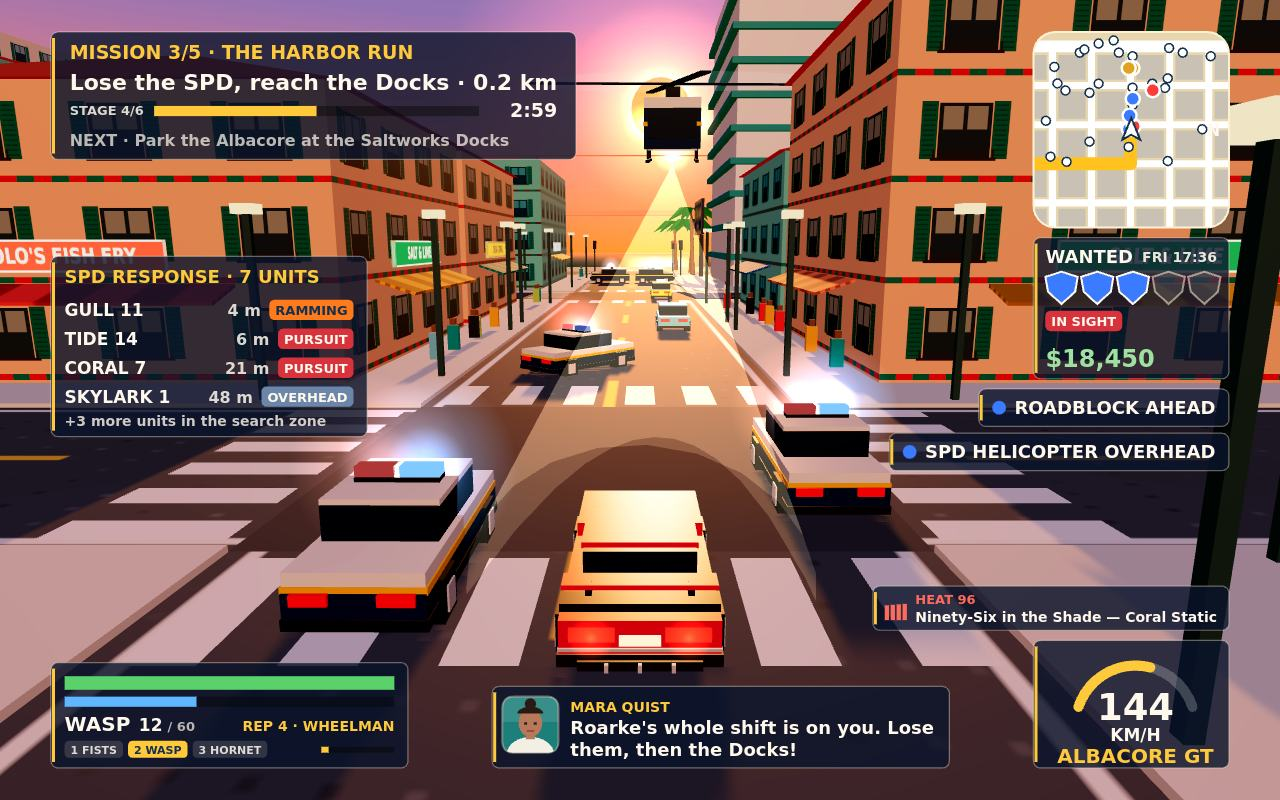
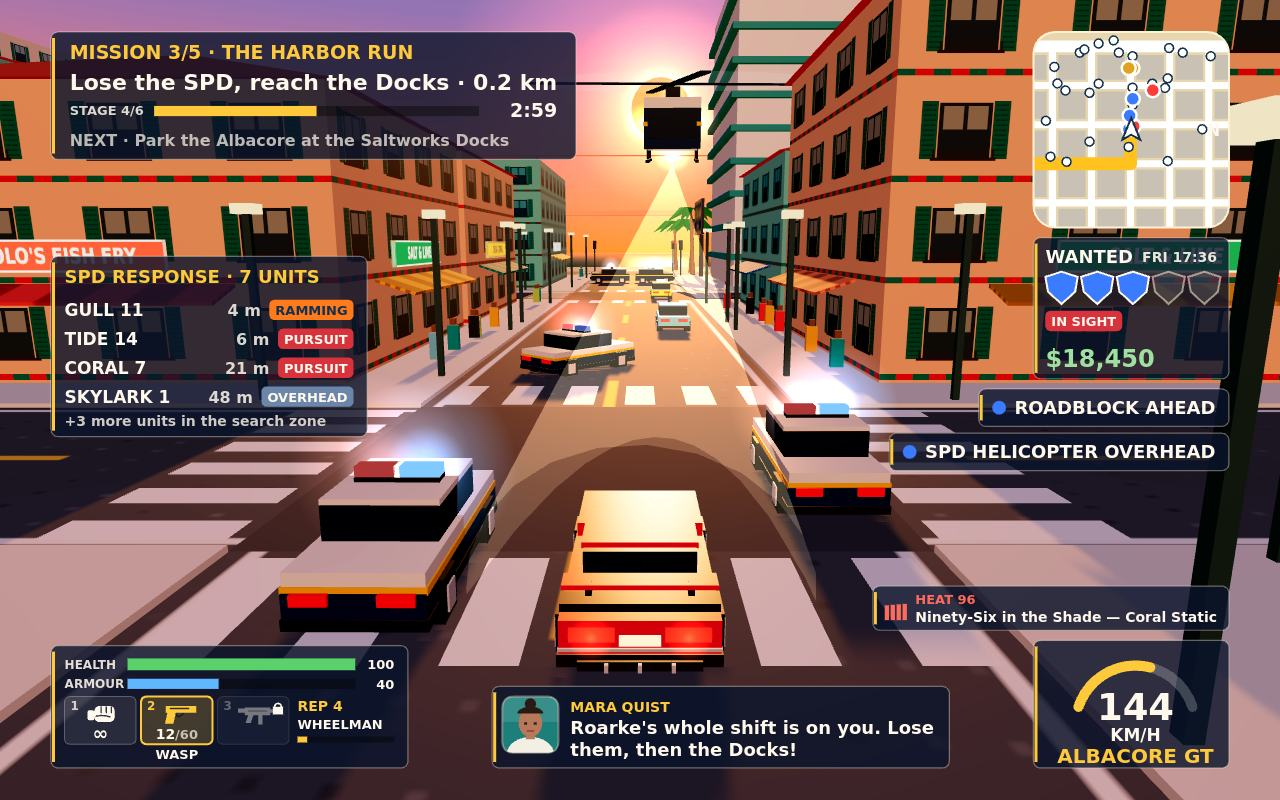
M7 step 1: weapon strip and labelled bars in the play HUD: HEALTH and ARMOUR rows with values; one 84x56 tile per slot (drawWeaponStrip, drawWeaponTile) with our own canvas pictograms (drawWeaponPictogram: fist, Wasp pistol, Hornet SMG), slot number, ammo (FISTS ∞, clip/reserve, red when low), the h

Changed region(s): [[0.0312, 0.7812, 0.3125, 0.9688]]

diff --git a/game/src/ui/hud.js b/game/src/ui/hud.js
@@ -118,47 +118,9 @@ export function drawHud(ctx, game, drawMinimap) {
   ctx.fillText(`${clock.weekday} ${String(Math.floor(minutes / 60)).padStart(2, '0')}:${String(minutes % 60).padStart(2, '0')}`, mapX + size - 14 * s, pipY + 29 * s);
   ctx.textAlign = 'left';
 
-  // Health, armour and weapon.
-  const by = h - my - 124 * s;
-  panel(ctx, mx, by, 420 * s, 124 * s);
-  const player = game.player;
-  bar(ctx, mx + 16 * s, by + 16 * s, 388 * s, 16 * s, player.health / 100, '#5ad16a');
-  bar(ctx, mx + 16 * s, by + 40 * s, 388 * s, 12 * s, player.armour / 100, '#5fb7ff');
-  // The held weapon and its ammo (clip / reserve, RELOADING while it reloads), then the slot chips.
+  // Health, armour, the weapon strip and REP (bottom-left).
   const arms = game.arms, wpn = arms?.weapon;
-  ctx.fillStyle = WHITE; ctx.font = font(24 * s);
-  ctx.fillText(wpn ? wpn.short : 'FISTS', mx + 16 * s, by + 80 * s);
-  if (wpn?.clip) {
-    const nameW = ctx.measureText(wpn.short).width;
-    ctx.font = font(arms.reloading > 0 ? 14 * s : 20 * s);
-    ctx.fillStyle = arms.reloading > 0 ? GOLD : (arms.clip.clip <= 3 ? '#ff6b5b' : WHITE);
-    ctx.fillText(arms.reloading > 0 ? 'RELOADING' : `${arms.clip.clip}`, mx + 26 * s + nameW, by + 80 * s);
-    if (!(arms.reloading > 0)) {
-      const cw = ctx.measureText(`${arms.clip.clip}`).width;
-      ctx.font = font(15 * s); ctx.fillStyle = 'rgba(255,248,236,0.7)';
-      ctx.fillText(`/ ${arms.clip.reserve}`, mx + 32 * s + nameW + cw, by + 80 * s);
-    }
-  }
-  if (arms) {
-    let sx = mx + 16 * s;
-    ctx.font = font(13 * s);
-    arms.slots.forEach((wd, i) => {
-      const label = `${i + 1} ${wd.short}`, cw = ctx.measureText(label).width + 14 * s, on = i === arms.slot;
-      ctx.fillStyle = on ? GOLD : 'rgba(255,248,236,0.14)';
-      ctx.beginPath(); ctx.roundRect(sx, by + 92 * s, cw, 20 * s, 5 * s); ctx.fill();
-      ctx.fillStyle = on ? '#14304f' : 'rgba(255,248,236,0.85)';
-      ctx.fillText(label, sx + 7 * s, by + 107 * s);
-      sx += cw + 6 * s;
-    });
-  }
-  // REP rank and progress on the right of the weapon row.
-  if (game.rankFor) {
-    const r = game.rankFor(game.missions.rep);
-    ctx.font = font(17 * s); ctx.textAlign = 'right'; ctx.fillStyle = GOLD;
-    ctx.fillText(`REP ${r.rank} · ${r.name}`, mx + 404 * s, by + 80 * s);
-    ctx.textAlign = 'left';
-    bar(ctx, mx + 318 * s, by + 99 * s, 86 * s, 7 * s, r.frac, GOLD);
-  }
+  drawVitalsPanel(ctx, game, mx, h - my, s);
   // Crosshair while aiming or firing on foot; the hit marker is four short gold ticks round it.
   if (arms && !game.vehicle && wpn.clip && (arms.aiming || arms.firing > 0)) {
     const cx = w / 2, cy = h / 2;
@@ -302,6 +264,148 @@ export function panel(ctx, x, y, w, h) {
 function bar(ctx, x, y, w, h, frac, color) {
   ctx.fillStyle = 'rgba(0,0,0,0.4)'; ctx.fillRect(x, y, w, h);
   ctx.fillStyle = color; ctx.fillRect(x, y, w * Math.max(0, Math.min(1, frac)), h);
+}
+
+// The bottom-left panel (420 x VITALS_HEIGHT units, its bottom on the HUD margin): HEALTH and
+// ARMOUR rows across the top, then the weapon strip on the left and the REP column on the right.
+export const VITALS_HEIGHT = 144;
+const LOW_AMMO = '#ff6b5b';
+function drawVitalsPanel(ctx, game, mx, bottom, s) {
+  const by = bottom - VITALS_HEIGHT * s;
+  panel(ctx, mx, by, 420 * s, VITALS_HEIGHT * s);
+  const player = game.player;
+  drawLabelledBar(ctx, 'HEALTH', player.health, mx, by + 15 * s, 14, '#5ad16a', s);
+  drawLabelledBar(ctx, 'ARMOUR', player.armour, mx, by + 39 * s, 12, '#5fb7ff', s);
+  if (game.arms) drawWeaponStrip(ctx, game.arms, mx + 16 * s, by + 60 * s, s);
+  if (game.rankFor) drawRepColumn(ctx, game.rankFor(game.missions.rep), mx + 290 * s, by + 60 * s, s);
+}
+
+// One vitals row: the label on the left, the bar, and the value (out of 100) right-aligned.
+function drawLabelledBar(ctx, label, value, x, y, barH, color, s) {
+  const mid = y + barH * s / 2;
+  ctx.font = font(14 * s); ctx.fillStyle = 'rgba(255,248,236,0.88)';
+  ctx.fillText(label, x + 16 * s, mid + 5 * s);
+  bar(ctx, x + 90 * s, y, 268 * s, barH * s, value / 100, color);
+  ctx.font = font(15 * s); ctx.fillStyle = WHITE; ctx.textAlign = 'right';
+  ctx.fillText(`${Math.max(0, Math.round(value))}`, x + 404 * s, mid + 5.5 * s);
+  ctx.textAlign = 'left';
+}
+
+// One tile per slot (84 x 56 units, 6 apart): a drawn pictogram, the slot number in the corner and
+// the ammo under it; the held tile is gold-rimmed with the weapon's short name (and RELOADING)
+// under it. A locked slot is dimmed with a padlock and shows no ammo.
+const TILE = { w: 84, h: 56, gap: 6 };
+function drawWeaponStrip(ctx, arms, x, y, s) {
+  arms.slots.forEach((wd, i) => {
+    const tx = x + i * (TILE.w + TILE.gap) * s;
+    drawWeaponTile(ctx, wd, arms.ammo[i], i, i === arms.slot, arms.locked.has(wd.id), arms, tx, y, s);
+  });
+  const held = arms.weapon, i = arms.slot;
+  const reloading = held.clip && arms.reloading > 0;
+  const label = reloading ? `${held.short} · RELOADING` : held.short;
+  const tx = x + i * (TILE.w + TILE.gap) * s;
+  // Left-aligned under the first tile, centred under the middle one, right-aligned under the last,
+  // so the line never runs out of the strip.
+  const align = i === 0 ? 'left' : i === arms.slots.length - 1 ? 'right' : 'center';
+  const ax = align === 'left' ? tx : align === 'right' ? tx + TILE.w * s : tx + TILE.w * s / 2;
+  ctx.font = font(15 * s); ctx.textAlign = align; ctx.fillStyle = reloading ? GOLD : WHITE;
+  ctx.fillText(label, ax, y + (TILE.h + 17) * s);
+  ctx.textAlign = 'left';
+}
+
+function drawWeaponTile(ctx, wd, ammo, i, held, locked, arms, x, y, s) {
+  const w = TILE.w * s, h = TILE.h * s;
+  ctx.save();
+  if (locked) ctx.globalAlpha = 0.42;
+  ctx.fillStyle = held ? 'rgba(255,201,60,0.2)' : 'rgba(255,248,236,0.09)';
+  ctx.beginPath(); ctx.roundRect(x, y, w, h, 6 * s); ctx.fill();
+  ctx.strokeStyle = held ? GOLD : 'rgba(255,248,236,0.28)';
+  ctx.lineWidth = (held ? 2.4 : 1.2) * s;
+  ctx.stroke();
+  // Slot number, top-left.
+  ctx.font = font(14 * s); ctx.fillStyle = held ? GOLD : 'rgba(255,248,236,0.8)';
+  ctx.fillText(`${i + 1}`, x + 7 * s, y + 16 * s);
+  drawWeaponPictogram(ctx, wd.id, x + w / 2 + 4 * s, y + 21 * s, s, held ? GOLD : WHITE);
+  ctx.textAlign = 'center';
+  if (locked) {
+    // No ammo on a locked slot; the padlock goes on at full strength after the dimmed tile.
+  } else if (!wd.clip) {
+    ctx.font = font(22 * s); ctx.fillStyle = WHITE;
+    ctx.fillText('∞', x + w / 2, y + 51 * s);
+  } else {
+    const low = ammo.clip <= 3;
+    const clipText = `${ammo.clip}`, restText = `/${ammo.reserve}`;
+    ctx.font = font(17 * s); const cw = ctx.measureText(clipText).width;
+    ctx.font = font(15 * s, 700); const rw = ctx.measureText(restText).width;
+    const left = x + (w - cw - rw) / 2;
+    ctx.textAlign = 'left';
+    ctx.font = font(17 * s); ctx.fillStyle = low ? LOW_AMMO : WHITE;
+    ctx.fillText(clipText, left, y + 50 * s);
+    ctx.font = font(15 * s, 700); ctx.fillStyle = low ? LOW_AMMO : 'rgba(255,248,236,0.7)';
+    ctx.fillText(restText, left + cw, y + 50 * s);
+  }
+  ctx.restore();
+  ctx.textAlign = 'left';
+  if (locked) drawLockMark(ctx, x + w - 13 * s, y + 13 * s, s);
+}
+
+// Our own flat pictograms in a 44 x 24 unit box round (cx, cy): a side-on fist, the Wasp pistol
+// and the compact Hornet SMG, both facing right. Dark seams pick out fingers and parts.
+function drawWeaponPictogram(ctx, id, cx, cy, s, color) {
+  ctx.save();
+  ctx.translate(cx, cy); ctx.scale(s, s);
+  ctx.fillStyle = color;
+  ctx.strokeStyle = 'rgba(10,20,44,0.85)'; ctx.lineWidth = 1.6; ctx.lineCap = 'round';
+  ctx.beginPath();
+  if (id === 'fists') {
+    ctx.roundRect(-19, -5, 8, 12, 2); // cuff
+    ctx.roundRect(-11, -10, 24, 19, 6); // knuckles and back of the hand
+    ctx.fill();
+    ctx.beginPath();
+    for (const fx of [-3, 3, 9]) { ctx.moveTo(fx, -9); ctx.lineTo(fx, -2); } // finger seams
+    ctx.moveTo(-9, 2); ctx.quadraticCurveTo(0, 0, 8, 3); // the thumb across the fingers
+    ctx.stroke();
+  } else if (id === 'wasp') {
+    ctx.rect(-17, -10, 36, 8); // slide
+    ctx.moveTo(-15, -2); ctx.lineTo(-5, -2); ctx.lineTo(-8, 11); ctx.lineTo(-18, 11); ctx.closePath(); // grip
+    ctx.fill();
+    ctx.beginPath();
+    ctx.moveTo(-5, -1); ctx.quadraticCurveTo(-4, 6, 4, -1); // trigger guard
+    ctx.moveTo(-12, -7); ctx.lineTo(10, -7); // slide line
+    ctx.stroke();
+  } else {
+    ctx.rect(-14, -8, 30, 9); // receiver
+    ctx.rect(16, -6, 7, 4); // barrel
+    ctx.rect(-22, -7, 8, 5); // folded stock
+    ctx.moveTo(-10, 1); ctx.lineTo(-4, 1); ctx.lineTo(-7, 10); ctx.lineTo(-13, 10); ctx.closePath(); // grip
+    ctx.rect(2, 1, 5, 11); // straight magazine
+    ctx.fill();
+    ctx.beginPath();
+    ctx.moveTo(-10, -4); ctx.lineTo(12, -4); // receiver seam
+    ctx.stroke();
+  }
+  ctx.restore();
+}
+
+// A small padlock (shackle and body) for a locked slot.
+function drawLockMark(ctx, cx, cy, s) {
+  ctx.save();
+  ctx.strokeStyle = WHITE; ctx.fillStyle = WHITE; ctx.lineWidth = 2 * s;
+  ctx.beginPath(); ctx.arc(cx, cy - 1 * s, 4 * s, Math.PI, 0); ctx.stroke();
+  ctx.fillRect(cx - 6 * s, cy - 1 * s, 12 * s, 9 * s);
+  ctx.restore();
+}
+
+// REP in the right column (114 units wide): "REP 4", the rank name (shrunk to fit), its bar.
+function drawRepColumn(ctx, r, x, y, s) {
+  ctx.font = font(17 * s); ctx.fillStyle = GOLD;
+  ctx.fillText(`REP ${r.rank}`, x, y + 17 * s);
+  let px = 15;
+  ctx.font = font(px * s);
+  while (px > 11 && ctx.measureText(r.name).width > 114 * s) ctx.font = font(--px * s);
+  ctx.fillStyle = WHITE;
+  ctx.fillText(r.name, x, y + 38 * s);
+  bar(ctx, x, y + 47 * s, 114 * s, 7 * s, r.frac, GOLD);
 }
 
 // The mission panel: "MISSION 3/5 · THE HARBOR RUN", the objective with live distance, a stage
